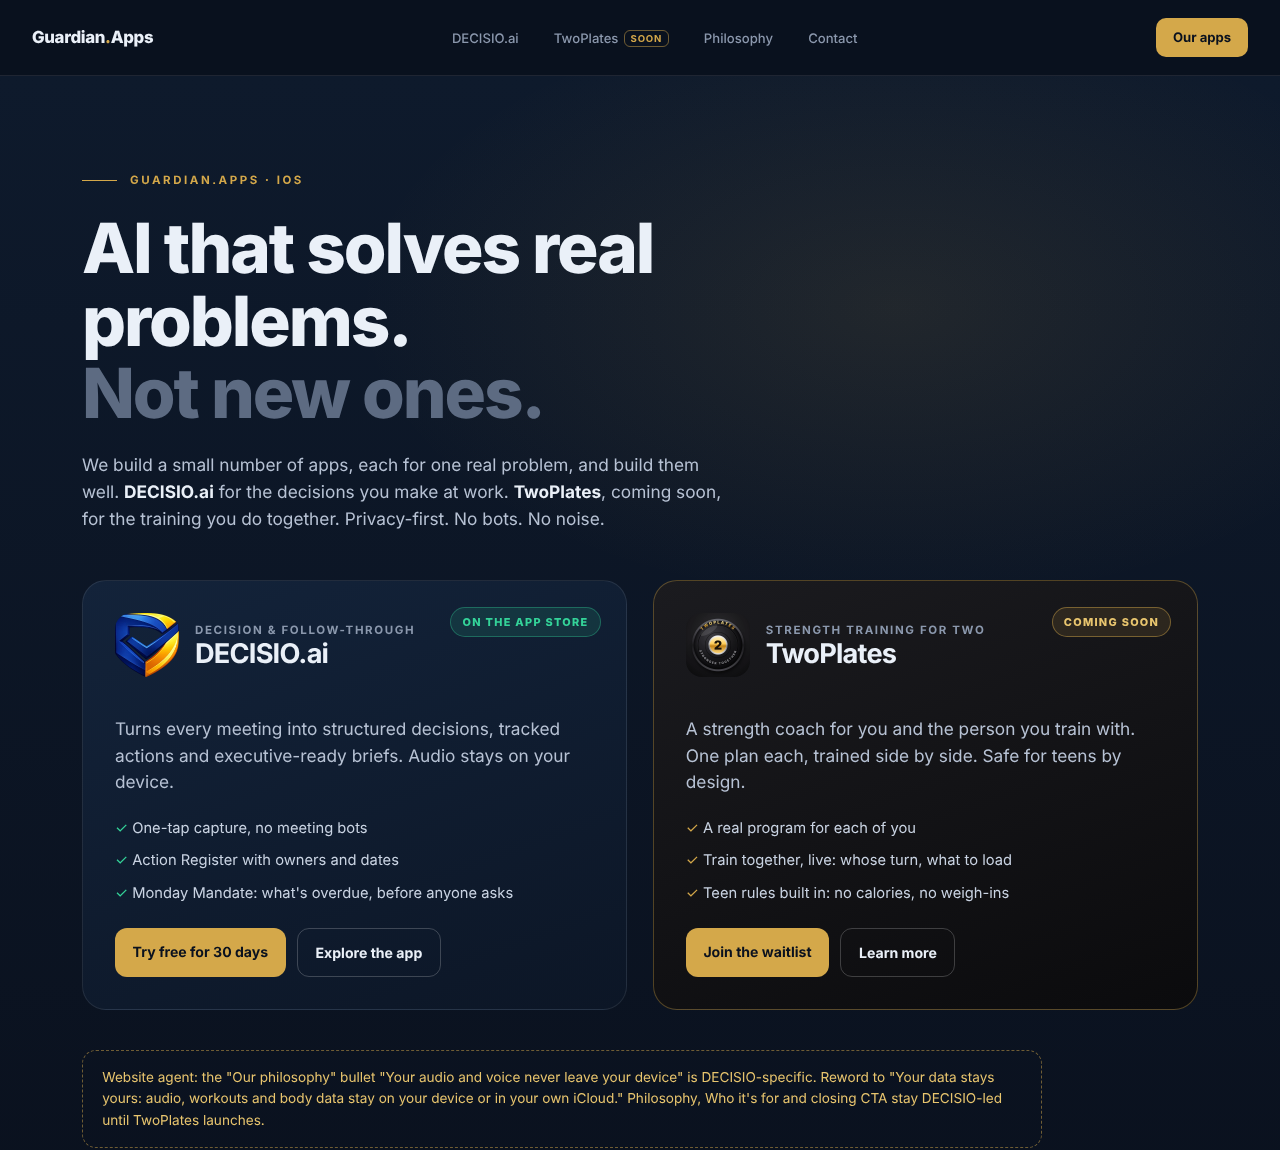
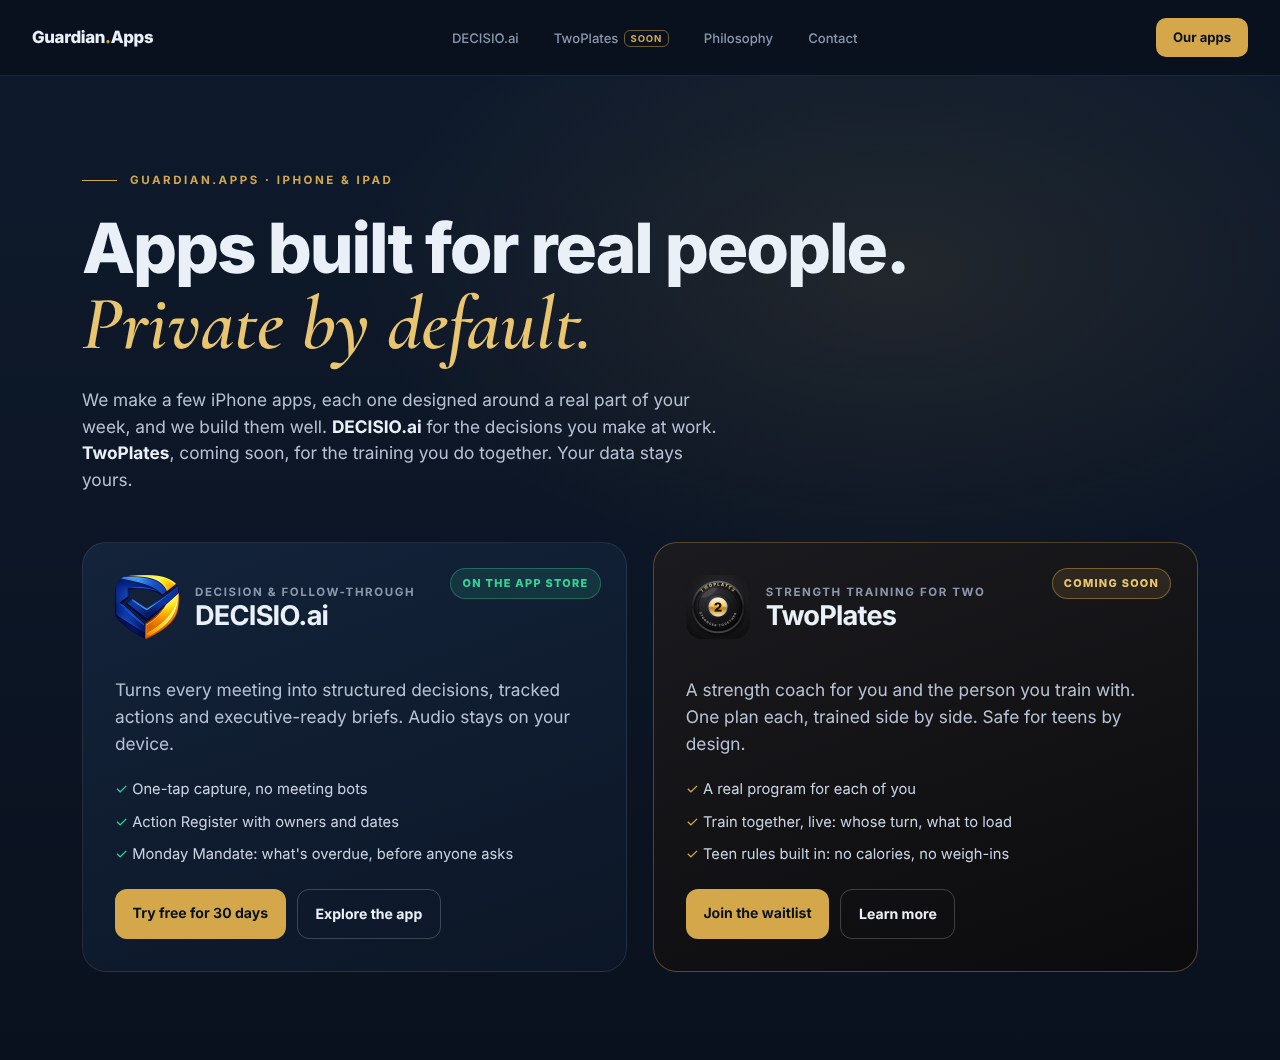
Add exercise illustration section and new company headline to TwoPlates site design
Hein wants visitors to see the 3D exercise illustrations and to drop
the 'AI that solves real problems' line now that the company has a
non-AI app. Also ties the legal plan to the earlier draft in the app
repo and spells out the founder quote for Hein to approve.

Claude-Session: https://claude.ai/code/session_01JN8HRfXHAzwszwnq8yH2na

diff --git a/docs/twoplates-website/prototype/twoplates.html b/docs/twoplates-website/prototype/twoplates.html
@@ -130,6 +130,20 @@ footer{border-top:1px solid var(--line);padding:2.2rem 0}
 .foot-brand{font-weight:800;color:var(--text)}.foot-brand span{color:var(--gold)}
 .foot-links{display:flex;gap:1.6rem;list-style:none}
 
+
+/* SEE EVERY MOVE */
+.move{display:grid;grid-template-columns:1fr 1.1fr;gap:4rem;align-items:center}
+.move h2{font-size:clamp(2rem,3.6vw,2.9rem);font-weight:800;margin-top:1rem}
+.move h2 .serif{color:var(--gold-text);font-size:1.1em}
+.move p{color:var(--ink-muted);font-size:1.05rem;margin-top:1rem}
+.move ul{list-style:none;margin-top:1.4rem}.move li{padding:.5rem 0;border-top:1px solid var(--line-on-paper);font-size:.95rem}.move li b{color:var(--tp-strength);margin-right:.4rem}
+.duo{position:relative;height:560px}
+.duo .phone{width:250px}
+.duo .phone.a{left:2%;top:10px;transform:rotate(-4deg)}
+.duo .phone.b{right:2%;top:60px;transform:rotate(4deg)}
+.duo .lit{position:absolute;left:38%;bottom:6px;font-size:.72rem;font-weight:700;color:#b3261e;background:#fff3f2;border:1px solid rgba(214,69,69,.35);border-radius:999px;padding:.35rem .75rem}
+@media (max-width:900px){.move{grid-template-columns:1fr;gap:2rem}.duo{height:420px}.duo .phone{width:180px}}
+
 @media (max-width:900px){
   .nav-links{display:none}
   .wrap{padding:0 1rem}
@@ -233,6 +247,21 @@ footer{border-top:1px solid var(--line);padding:2.2rem 0}
       <div class="step"><span class="n">03</span><h3>Watch it add up</h3><p>A weekly view of what you both did: sessions, streaks, personal records, and a 30-day map that makes consistency visible.</p>
         <ul><li><b>✓</b> Weekly progress ring and streaks</li><li><b>✓</b> PRs and "vs last time"</li><li><b>✓</b> Nudge your buddy, not nag them</li></ul>
         <div class="shot"><img src="assets/twoplates/tp-screen-log.webp" alt="Weekly log with heat map"></div></div>
+    </div>
+  </div>
+</section>
+
+<section class="paper pad" id="exercises" style="padding-top:2rem">
+  <div class="wrap move">
+    <div>
+      <div class="eyebrow">See every move</div>
+      <h2>Every exercise, shown.<br><span class="serif">Every muscle, lit up.</span></h2>
+      <p>Over 500 exercises, each with a looping 3D demonstration and the muscles it works highlighted in red. Not sure about your form between sets? Tap the exercise and watch it, slowed down if you like.</p>
+      <ul><li><b>✓</b>Looping motion demos, with slow motion</li><li><b>✓</b>Main and supporting muscles highlighted</li><li><b>✓</b>Short step-by-step cues, no essays</li><li><b>✓</b>Swap any exercise for one that fits your kit</li></ul>
+    </div>
+    <div class="duo" aria-hidden="true">
+      <div class="phone a"><img src="assets/twoplates/tp-screen-library.webp" alt="Exercise library, Back tab, with illustrated exercises"></div>
+      <div class="phone b"><img src="assets/twoplates/tp-screen-exercise.webp" alt="Lat Pulldown with the lats highlighted"></div>
     </div>
   </div>
 </section>

diff --git a/docs/twoplates-website/prototype/index-two-apps.html b/docs/twoplates-website/prototype/index-two-apps.html
@@ -163,9 +163,9 @@ footer{border-top:1px solid var(--line);padding:2.2rem 0}
   <a href="#apps" class="nav-cta">Our apps</a>
 </nav>
 <header class="h2"><div class="wrap">
-<div class="eyebrow">Guardian.Apps · iOS</div>
-<h1 style="margin-top:1.4rem">AI that solves real problems.<br><span class="dim">Not new ones.</span></h1>
-<p>We build a small number of apps, each for one real problem, and build them well. <b style="color:#EAF0F8">DECISIO.ai</b> for the decisions you make at work. <b style="color:#EAF0F8">TwoPlates</b>, coming soon, for the training you do together. Privacy-first. No bots. No noise.</p>
+<div class="eyebrow">Guardian.Apps · iPhone &amp; iPad</div>
+<h1 style="margin-top:1.4rem">Apps built for real people.<br><span class="serif" style="color:#E8C56E;font-size:1.1em">Private by default.</span></h1>
+<p>We make a few iPhone apps, each one designed around a real part of your week, and we build them well. <b style="color:#EAF0F8">DECISIO.ai</b> for the decisions you make at work. <b style="color:#EAF0F8">TwoPlates</b>, coming soon, for the training you do together. Your data stays yours.</p>
 <div class="apps" id="apps">
  <div class="app dec"><span class="state live">On the App Store</span>
   <div class="top"><img src="../../../assets/brand/decisio-mark-256.webp" alt=""><div><div class="k">Decision &amp; follow-through</div><h3>DECISIO.ai</h3></div></div>
@@ -178,5 +178,4 @@ footer{border-top:1px solid var(--line);padding:2.2rem 0}
   <ul><li>A real program for each of you</li><li>Train together, live: whose turn, what to load</li><li>Teen rules built in: no calories, no weigh-ins</li></ul>
   <div class="acts"><a class="btn p">Join the waitlist</a><a class="btn gh">Learn more</a></div></div>
 </div>
-<div class="note">Website agent: the "Our philosophy" bullet "Your audio and voice never leave your device" is DECISIO-specific. Reword to "Your data stays yours: audio, workouts and body data stay on your device or in your own iCloud." Philosophy, Who it's for and closing CTA stay DECISIO-led until TwoPlates launches.</div>
 </div></header></body></html>

diff --git a/docs/twoplates-website/README.md b/docs/twoplates-website/README.md
@@ -8,10 +8,11 @@ Design and copy for adding TwoPlates to gap-apps.com as a coming-soon product. B
 |---|---|
 | `prototype/twoplates.html` | The full coming-soon page, ready to adapt. Same tokens and structure as `index.html`. Responsive (mobile under 900px). |
 | `prototype/index-two-apps.html` | The homepage hero and "Our apps" two-card block. |
-| `prototype/assets/twoplates/` | `tp-icon-512.webp` (app icon), `tp-og.png` (1200×630 share image), four app screens (`tp-screen-*.webp`). |
+| `prototype/assets/twoplates/` | `tp-icon-512.webp` (app icon), `tp-og.png` (1200×630 share image), six app screens (`tp-screen-*.webp`), including `tp-screen-exercise.webp` and `tp-screen-library.webp` with the real MoveKit exercise illustrations. |
 | `mockups/twoplates-coming-soon-overview.png` | First screen, desktop and phone. |
 | `mockups/twoplates-coming-soon-desktop.png`, `-mobile.png` | Full page renders. |
-| `mockups/homepage-two-apps.png` | Homepage change. |
+| `mockups/homepage-two-apps.png` | Homepage change (new headline). |
+| `mockups/twoplates-see-every-move.png` | The "See every move" section with real exercise illustrations. |
 | `NARRATIVE.md` | Positioning, what we may and may not claim, headlines, launch posts. |
 | `LEGAL-PLAN.md` | Terms and privacy plan (no legal page changes needed for the coming-soon page itself). |
 
@@ -21,13 +22,14 @@ Design and copy for adding TwoPlates to gap-apps.com as a coming-soon product. B
 2. **Waitlist:** both forms post to the existing Buttondown list (`MyGuardianApps`) with a hidden `tag=twoplates-waitlist`. Check that Buttondown applies the tag from the embed form (create the tag in Buttondown first if needed). Reuse the success-message script from `index.html` (`newsletterSuccess`) so people see "Thanks! Check your inbox to confirm."
 3. **Nav on every page:** add "TwoPlates" with the small "Soon" badge. On `twoplates.html` the gold button says "Join the waitlist" and jumps to the form; elsewhere it stays as it is.
 4. **Footer on every page:** add a "TwoPlates" link.
-5. **Homepage:** replace "We build one thing…" with the two-app copy and add the "Our apps" block from `index-two-apps.html`. Leave DECISIO's sections as they are. Change the philosophy bullet "Your audio and voice never leave your device" to "Your data stays yours: audio, workouts and body data stay on your device or in your own iCloud." Hero line: **ask Hein** whether to keep "AI that solves real problems" or change it to "Apps that solve real problems".
+5. **Homepage:** new hero (decided by Hein): eyebrow "Guardian.Apps · iPhone & iPad", headline **"Apps built for real people."** with **"Private by default."** in the gold serif italic on the second line, and the new paragraph from `index-two-apps.html`. Remove "AI that solves real problems. Not new ones." everywhere it appears (hero, page title, meta description, Open Graph). New page title: "Guardian.Apps: iPhone apps built for real people". Add the "Our apps" block. Leave DECISIO's sections as they are. Change the philosophy bullet "Your audio and voice never leave your device" to "Your data stays yours: audio, workouts and body data stay on your device or in your own iCloud." 
 6. **sitemap.xml:** add `https://gap-apps.com/twoplates.html`.
 7. **Accessibility:** keep the alt texts; contrast as on the rest of the site; FAQ uses `<details>` (keyboard friendly).
 
 ## Before it goes live (Hein)
 
-- **Founder note:** the quote and paragraph signed by Hein are placeholder wording; Hein writes or approves them.
+- **Founder note:** the "Why this exists" section has a short quote in quotation marks with Hein's name under it. The designer wrote those words. Publish only once Hein has approved or reworded them (see NARRATIVE §7).
 - **Screens are design previews.** The page says "Design preview. The final app may differ." Swap in real iPhone captures once TestFlight build 2 looks right (same file names, 780×1688).
 - Only claim what's built (see NARRATIVE §4). No pricing, no launch date, no Garmin, Strava or Watch promises, no machine brand names (for example Hammer Strength) in screenshots.
-- Exercise illustrations from the app aren't used on the site. Before using them, confirm their licence allows marketing use.
+- **Exercise illustrations:** the "See every move" section shows MoveKit illustrations, always inside an app screen, never as standalone art. Hein's licence (MK-LIC-XRA4Y-…, see twoplates-ios `docs/LICENCES/movekit/`) covers "commercial use inside apps". Hein confirms at movekit.com/license (or with MoveKit support) that app screenshots on the website, App Store and social media are allowed before this section goes live. If not, publish the page without that section.
+- **Screens:** keep the design previews for now; replace them with real iPhone captures once TestFlight build 2 fixes are in (same file names, 780×1688).

diff --git a/docs/twoplates-website/NARRATIVE.md b/docs/twoplates-website/NARRATIVE.md
@@ -46,9 +46,18 @@ Same as DECISIO's site: short sentences, plain words, confident, no hype. Add wa
 - Teens: **Bringing your teen? The rules are built in.**
 - Closing: **Find your buddy. *Get on the list.***
 
-## 7. Founder note (Hein to write or approve)
+## 7. Founder note (Hein to approve)
 
-The prototype has a draft quote and paragraph signed "Hein Ellis, founder, Guardian Apps". **This is placeholder wording written by the designer.** Hein should rewrite it in his own words before it goes live; a real line about training with his own buddy beats anything written for him. Don't name family members on the site without their OK.
+The "Why this exists" section shows this line in quotation marks, with Hein's name under it:
+
+> "I wanted one app where we each get our own program, and still train as a team."
+
+Because it's presented as Hein's own words, he approves it or rewords it before launch. Options:
+- Keep it as is.
+- Make it personal, for example: "I train with my wife and my daughter. Every app gave us the same workout, or made us train alone. So I built the one we wanted."
+- Remove the quote and keep only the paragraph text (no quotation marks).
+
+Name family members only with their OK.
 
 ## 8. Homepage change (gap-apps.com)
 
@@ -56,7 +65,15 @@ The homepage says "We build one thing". Replace with:
 
 > We build a small number of apps, each for one real problem, and build them well. **DECISIO.ai** for the decisions you make at work. **TwoPlates**, coming soon, for the training you do together. Privacy-first. No bots. No noise.
 
-Add the two-card "Our apps" block (`mockups/homepage-two-apps.png`). Hein's call: the hero line "AI that solves real problems" fits DECISIO but not TwoPlates. Option: **"Apps that solve real problems. Not new ones."**
+Add the two-card "Our apps" block (`mockups/homepage-two-apps.png`).
+
+**New company headline (Hein agreed to drop the problem statement):**
+> **Apps built for real people.** *Private by default.*
+
+Alternates if he wants to compare: "Made for real people. Private by design." · "Real apps for real life." · "Small apps. Real people. Your data stays yours."
+
+## 8b. See every move (new section)
+Shows the exercise library and the Lat Pulldown detail with the real 3D illustration, lats highlighted. Message: every exercise is shown, every muscle is lit up, form help between sets. Claim "over 500 exercises" (582 MoveKit clips ship today).
 
 ## 9. Launch posts (Bluesky, Mastodon, newsletter)
 

diff --git a/docs/twoplates-website/LEGAL-PLAN.md b/docs/twoplates-website/LEGAL-PLAN.md
@@ -2,6 +2,13 @@
 
 Recommendation from the design and planning assistant. **Not legal advice.** TwoPlates handles health and fitness data and accounts for teens (13–17), so have a lawyer review the final texts before the App Store launch.
 
+## Earlier draft in the app repo
+
+`twoplates-ios/docs/TWOPLATES-LEGAL-ADDITIONS.md` (October) has plain-language TwoPlates text for the terms and privacy pages, written as sections to add to the existing pages. **Reuse that text as the body of the new TwoPlates pages below.** The difference is only where it lives: separate TwoPlates pages, so the App Store privacy URL describes only TwoPlates. Update it on three points:
+- It says Health data "stays on your device and in your iCloud". Change this once the Xcode agent confirms what syncs (App Review Guideline 5.1.3: no personal health information in iCloud).
+- It mentions a 14-day full-access period and a "Buddy plan". Keep that in sync with App Store Connect.
+- It says no TwoPlates server. The Strava relay is a server; describe it (passes tokens, stores nothing).
+
 ## Short answer
 
 **Keep one company-wide Terms and Privacy, and add TwoPlates-specific pages linked from them.** Don't fold TwoPlates into the DECISIO wording, and don't make a fully separate legal set either.
